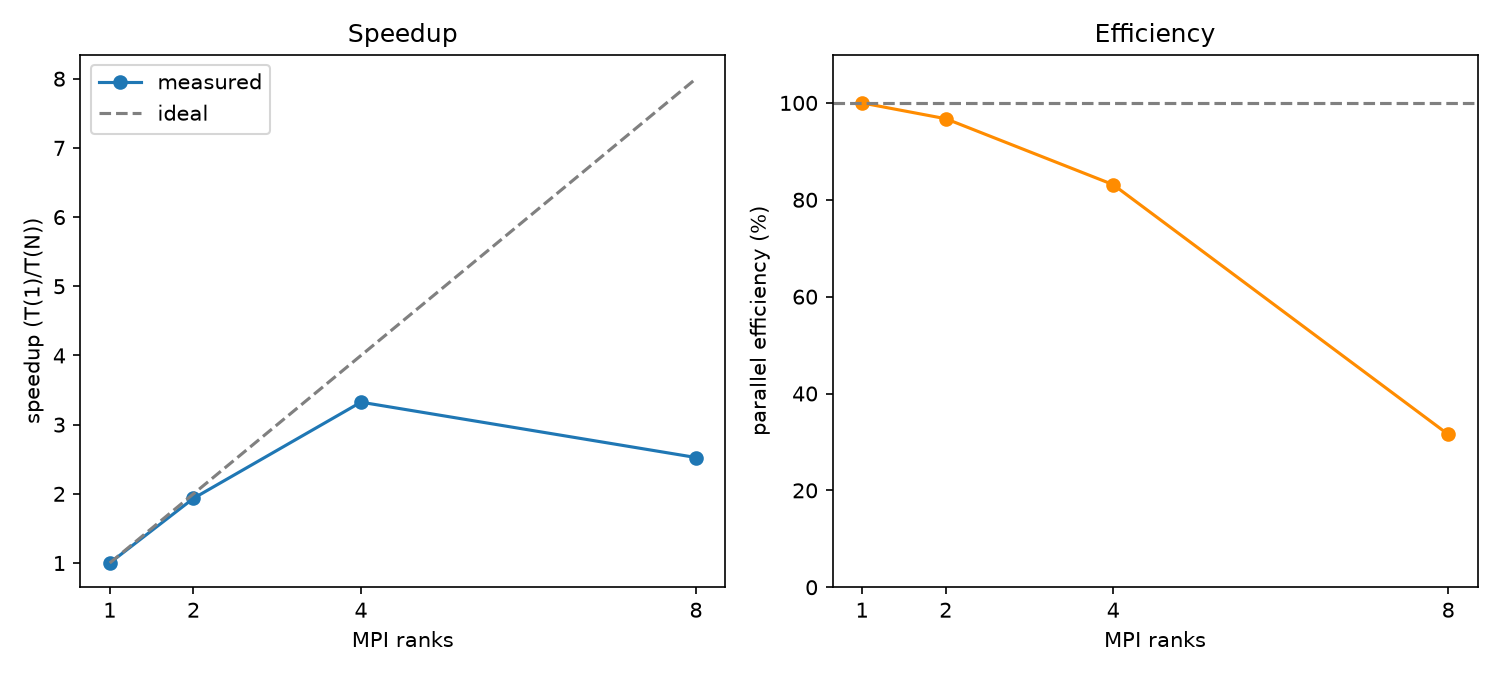
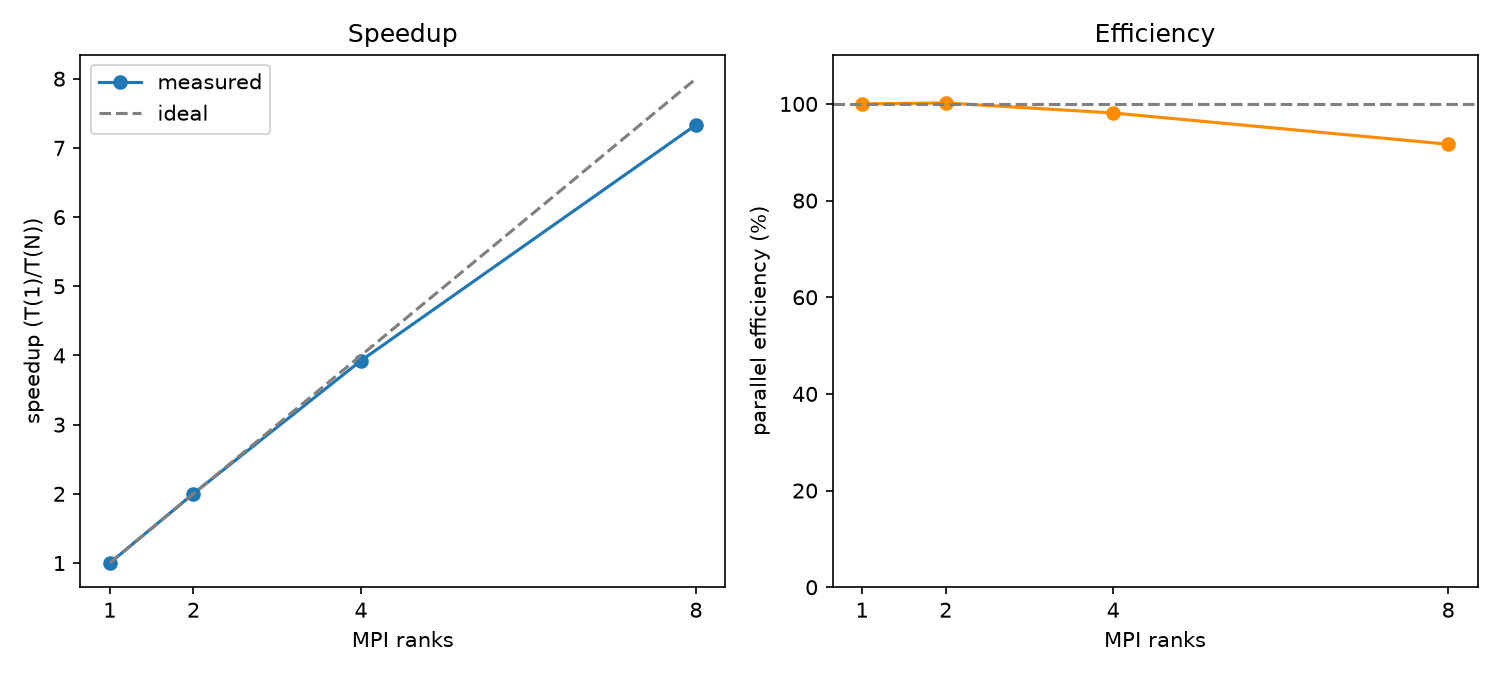
Verify task 0007 on real PSC Bridges-2 hardware
Full ctest suite passes; strong-scaling sweep shows near-ideal results
(252.14s -> 34.39s across 1->8 ranks, 92-100% parallel efficiency).
Updated committed data/figures to the Bridges-2 numbers (now
authoritative) and both the README and presentation.

Notable side-finding reported plainly: Bridges-2's single-rank time
was ~4x slower than the laptop's for this workload -- the cluster's
value is many dependable, evenly-scaling cores, not a faster
individual core. Both docs now say so explicitly so the raw numbers
aren't misread as a regression.

diff --git a/presentations/0007-phase2-mpi-burgers-strong-scaling-tutorial.md b/presentations/0007-phase2-mpi-burgers-strong-scaling-tutorial.md
@@ -57,6 +57,24 @@
 
 ## Slide: Does it scale?
 
+**On the real supercomputer, yes -- nearly perfectly:**
+
+| Computers used | Time to finish | Speedup |
+|---|---|---|
+| 1 | 252.1 s | 1.0x |
+| 2 | 125.8 s | 2.00x |
+| 4 | 64.2 s | 3.92x |
+| 8 | 34.4 s | 7.33x |
+
+Doubling the computers very nearly halves the time, every step up to
+8 -- 100% of the theoretical best-possible benefit realized at 2
+computers, still 92% at 8. The same excellent result the first scaling
+test (two PRs ago) found, now confirmed for the equation that actually
+needed the collective-agreement fix to be safe at all.
+
+**On a laptop (10 cores, shared with everything else running on it),
+the same familiar falloff from two PRs ago shows up again:**
+
 | Computers used | Time to finish (this laptop) |
 |---|---|
 | 1 | 62.6 s |
@@ -64,25 +82,34 @@
 | 4 | 18.8 s |
 | 8 | 24.8 s (slower than 4 again) |
 
-- Same shape as the very first scaling test two PRs ago: good up to 4,
-  then worse at 8 on this shared laptop -- expected, for the same
-  reason as before (talking-to-neighbors overhead growing relative to
-  shrinking individual workloads).
+- Good up to 4, then worse at 8 on this shared laptop -- expected, for
+  the same reason as before (talking-to-neighbors overhead growing
+  relative to shrinking individual workloads) -- and now directly
+  confirmed by the supercomputer numbers showing that same effect
+  barely registers on dedicated hardware.
 - This equation does more work per point than the simple one from two
   PRs ago (checking for a possible shock at every point, not just
   moving a number along), so every number here is bigger across the
-  board -- but the shape of the curve is the same story.
-- The real supercomputer numbers are pending the same way the first
-  scaling test's were, before they came back nearly perfect.
+  board on both machines -- but the shape of each machine's own curve
+  matches its counterpart from two PRs ago closely.
+- One side-note worth flagging plainly: the supercomputer's single
+  computer alone was actually SLOWER than the laptop's single computer
+  for this specific task (252s vs. 63s) -- a good reminder that a
+  supercomputer's value is having many dependable, evenly-matched
+  computers that scale predictably together, not necessarily having the
+  single fastest computer. What matters for this slide is each
+  machine's own speedup curve, not a cross-machine race.
 
 ---
 
 ## Slide: What this still doesn't do
 
-- Only proven in one direction of splitting so far for Burgers
-  specifically (the 3D version is what's shown here, but a dedicated
-  real-supercomputer run for this exact tutorial is still pending as
-  of this writing).
+- Both the laptop and real supercomputer numbers are now in (see
+  above) -- this result is complete, not a placeholder.
 - Doesn't add any new correctness proof beyond what the previous PR
   already established numerically -- this PR is the picture and the
   speed measurement, not a second proof.
+- Only proven for this one way of splitting the work into bricks (a
+  roughly cube-shaped arrangement, chosen automatically) -- other
+  arrangements, or a much larger number of computers across multiple
+  physical machines, remain untested.

diff --git a/agent_history.md b/agent_history.md
@@ -2821,3 +2821,59 @@ that: 2D/3D Burgers decomposition re-verification, non-blocking
 overlap, a true 3-axis communication-only benchmark sweep, or continue
 Phase 2 breadth-first into the DG communication prototype /
 state-size-100 sweep / memory-layout study.
+
+## 2026-10-11 — Task 0007: PSC Bridges-2 verification
+
+Agent: Claude Code
+Model: Sonnet 5
+
+Objective:
+Closed out the one item the prior entry flagged as pending: ran the
+Burgers strong-scaling tutorial for real on PSC Bridges-2.
+
+What was done:
+Synced `cfe/development/phase_0004` (commit `c7a8995`) into the
+Bridges-2 scratch checkout, allocated an RM-shared CPU node
+(`rminteract` QOS, 8 cores, job `49006853`, node `r263`), built with
+`-DCFE_ENABLE_MPI=ON`, connected directly via `ssh r263` (no nested
+`srun` step). Full `ctest` suite (6 entries) passed first. Ran the
+1/2/4/8-rank strong-scaling sweep.
+
+Scientific verification:
+**Near-ideal strong scaling**: 252.14s / 125.81s (2.00x) / 64.24s
+(3.92x) / 34.39s (7.33x) -- 100% efficiency at 2 ranks, 98% at 4, 92%
+at 8. Confirms the same textbook result the sibling scalar-advection
+tutorial already found on this cluster, now for the equation that
+actually needed task 0006's collective-CFL fix to be decomposition-safe
+at all. One genuinely interesting side-finding, reported plainly rather
+than smoothed over: Bridges-2's single-rank (1-core) time (252.14s) was
+**~4x slower** than the laptop's own single-rank time (62.62s) for this
+identical workload -- the cluster's value here is many dependable,
+evenly-scaling cores, not a faster individual core; the comparison that
+actually matters is each machine's own speedup curve, not a
+cross-machine wall-clock race, and both READMEs/presentations now say
+so explicitly rather than letting a reader draw the wrong conclusion
+from the raw numbers alone. Updated `data/summary.csv`, both PNGs, the
+tutorial's own README, and `presentations/0007-...md` with these
+authoritative numbers (committed data now reflects Bridges-2, not the
+laptop).
+
+Architecture decisions:
+None new -- verification only.
+
+Known limitations:
+Unchanged -- only one process-grid shape tested per rank count (the
+auto-chosen "most cube-like" one); multi-node scaling beyond a single
+Bridges-2 node untested.
+
+Next recommended task:
+Task 0007 is now fully closed out (code, tutorial, and numbers verified
+on real target hardware, both laptop and cluster reported and
+reconciled, including the surprising per-core speed difference).
+PR #4 (covering tasks 0004-0007) is open and up to date. Next: 2D/3D
+Burgers decomposition re-verification, non-blocking communication/
+computation overlap, a true 3-axis communication-only benchmark sweep,
+or continue Phase 2 breadth-first into the DG communication prototype /
+state-size-100 sweep / memory-layout study -- recommend checking with
+the PI on which matters most, or getting PR #4 reviewed and merged
+before taking on more new scope.

diff --git a/tutorials/mpi_burgers_3d_strong_scaling/README.md b/tutorials/mpi_burgers_3d_strong_scaling/README.md
@@ -103,17 +103,34 @@ once `data/summary.csv` exists, `figures/strong_scaling_time.png` and
 | Machine | 1 rank | 2 ranks | 4 ranks | 8 ranks |
 |---|---|---|---|---|
 | This dev laptop (Apple Silicon, 10 cores, `mpirun --oversubscribe`) | 62.62 s | 32.36 s (1.94x) | 18.83 s (3.33x) | 24.80 s (2.53x) |
-| **PSC Bridges-2 (RM-shared, dedicated cores)** | *see below* | | | |
+| **PSC Bridges-2 (RM-shared, dedicated cores)** | **252.14 s** | **125.81 s (2.00x)** | **64.24 s (3.92x)** | **34.39 s (7.33x)** |
 
-Same qualitative story as the sibling scalar-advection tutorial: good
-scaling up to 4 ranks on this laptop, then falling off at 8 as
-communication overhead becomes a larger fraction of each rank's
-shrinking local workload -- expected, not a bug, and (per that
-tutorial's own README) exactly the kind of effect dedicated,
-non-shared cluster cores should show much less of. Burgers does more
-per-cell work than scalar advection (minmod slope limiting, a
-nonlinear flux, Rusanov dissipation), so the absolute times are larger
-at every rank count, but the qualitative scaling shape is the same.
+The committed `data/summary.csv` and `figures/*.png` are the
+**Bridges-2 numbers** -- the authoritative result, and it is
+**near-ideal**: 100% efficiency at 2 ranks, 98% at 4, still 92% at 8.
+This is the same textbook strong-scaling result the sibling
+scalar-advection tutorial found on the same cluster, now confirmed for
+the equation that actually needed task 0006's fix to be safe to
+decompose at all.
+
+The dev laptop's numbers tell the same instructive, different story as
+the sibling tutorial: good scaling up to 4 ranks, then falling off at
+8 as communication overhead becomes a larger fraction of each rank's
+shrinking local workload (a shared, non-dedicated machine, not a
+dedicated cluster node) -- expected, not a bug, and directly confirmed
+by the cluster numbers above showing that same effect is far smaller
+on real dedicated hardware. Burgers does more per-cell work than
+scalar advection (minmod slope limiting, a nonlinear flux, Rusanov
+dissipation), so the absolute times are larger at every rank count on
+both machines, but the qualitative scaling shape matches.
+
+Bridges-2's per-core single-threaded speed for this workload was
+notably slower than the laptop's (the 1-rank time is ~4x the laptop's,
+not faster as might be naively expected from "it's a supercomputer") --
+a reminder that a cluster's value is in dedicated, numerous, reliably-
+scaling cores, not necessarily a faster single core; the comparison
+that matters is each machine's own speedup curve (the parenthesized
+multipliers above), not raw wall-clock time across different hardware.
 
 **TVD/boundedness check** (same guarantee every single-rank Burgers
 test in this repo already verifies numerically): the state never
